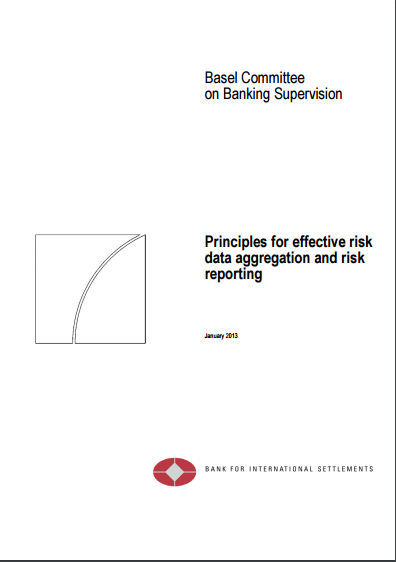
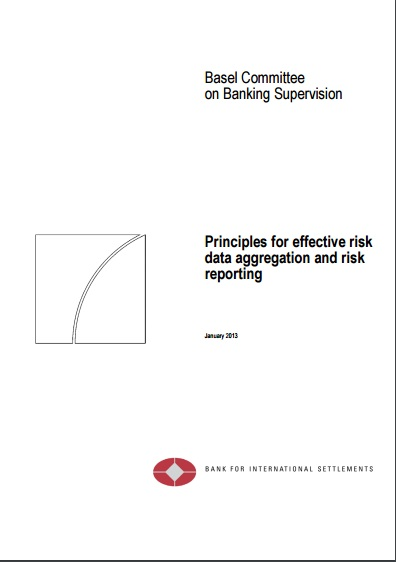
pic updated

Changed region(s): [[0.5152, 0.4235, 0.9394, 0.5142], [0.5152, 0.121, 0.8788, 0.1815], [0.5152, 0.5747, 0.6061, 0.605]]

diff --git a/index.html b/index.html
@@ -328,7 +328,7 @@
 						<li class="fragment">成功後便實際<span class='red'>運行及增大</span> (Implement and Scale)自動化規模</li>
 					</ol>
 					<div style='padding-top:20px'>
-							<img style='width:60%' src='img/pic7.png'>
+							<img style='width:60%' src='img/pic7.jpg'>
 					</div>
 				</section>
 				<section>
@@ -336,7 +336,7 @@
 					<p class='size2'><b>交叉銷售（Cross Selling）</b></p>
 					<div class='row'>
 						<div class='col-xs-5'>
-							<img src='img/pic11.png' style='height: 180px; top:20px'>
+							<img src='img/pic11.jpg' style='height: 180px; top:20px'>
 							<h3 class='size2 red'>中銀集團保險</h3>
 							<p class='size3'><i class='fa fa-plane'></i> 旅遊保險：環宇智選旅遊保障計劃</p>
 						</div>
@@ -357,9 +357,9 @@
 									$('#startana').click(function() {	
 										$('#hid').css('visibility','visible');
 										setTimeout(function() {
-											$('.navigate-right').click()
-										}, 2000);
-										$('#hid').css('visibility','hidden');
+											$('.navigate-right').click();
+											$('#hid').css('visibility','hidden');
+										}, 2000);							
 									})
 								})
 							</script>
@@ -471,11 +471,11 @@
 						<ul class="fragment size2" style='line-height: 43px; padding: 10px 50px 20px'>
 							<li class="fragment">Basel III/BCBS 239：中銀2011年加入<span class='red'>G-SIBs</span><br/>
 								根據BCBS 239，中銀必須要維持良好<span class='red'>數據治理</span>(Data Governance)，<span class='red'>能力和性能管理</span>(Capability and Performance Management)以及<span class='red'>壓力測試</span>(Stress Testing)
-								<img style='width: 25%;position: fixed;left: 65%;top: 11%;' src='img/pic8.png'>
+								<img style='width: 25%;position: fixed;left: 65%;top: 11%;' src='img/pic8.jpg'>
 							</li>
 							<li class="fragment">銀行內部數據<span class='red'>存取權限</span>(Data Authentication)<br/>
 								機器人存取數據時，會考慮存取人、數據源頭及數據量
-								<img style='width: 30%;position: fixed;left: 69%;top: 35%;' src='img/pic9.png'>
+								<img style='width: 30%;position: fixed;left: 69%;top: 35%;' src='img/pic9.jpg'>
 							</li>
 							<li class="fragment">運作應用層面<br/>
 								引入<span class='red'>DevOps</span>；參考<span class='red'>業務轉型外包</span>(Business Transformation Outsourcing - BTO)指引
